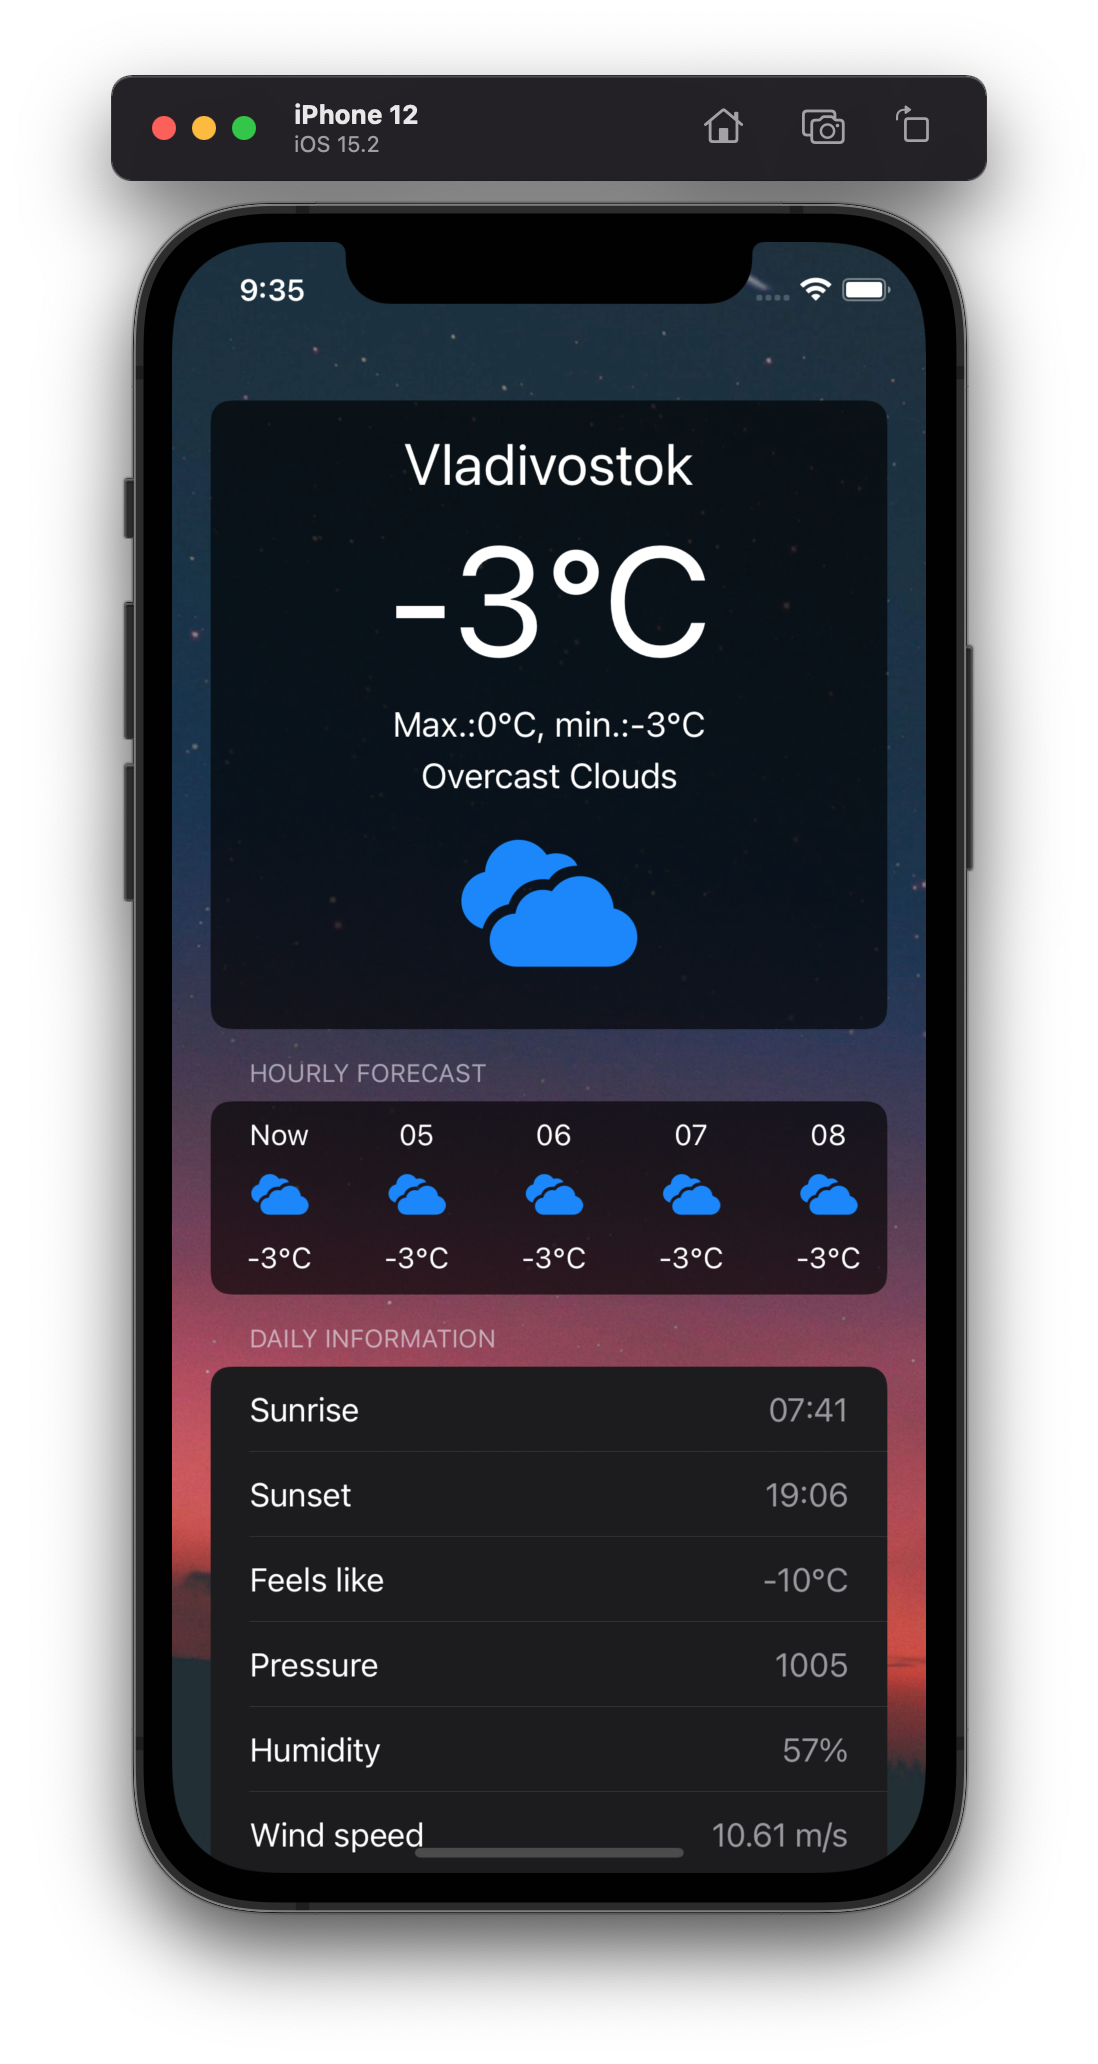
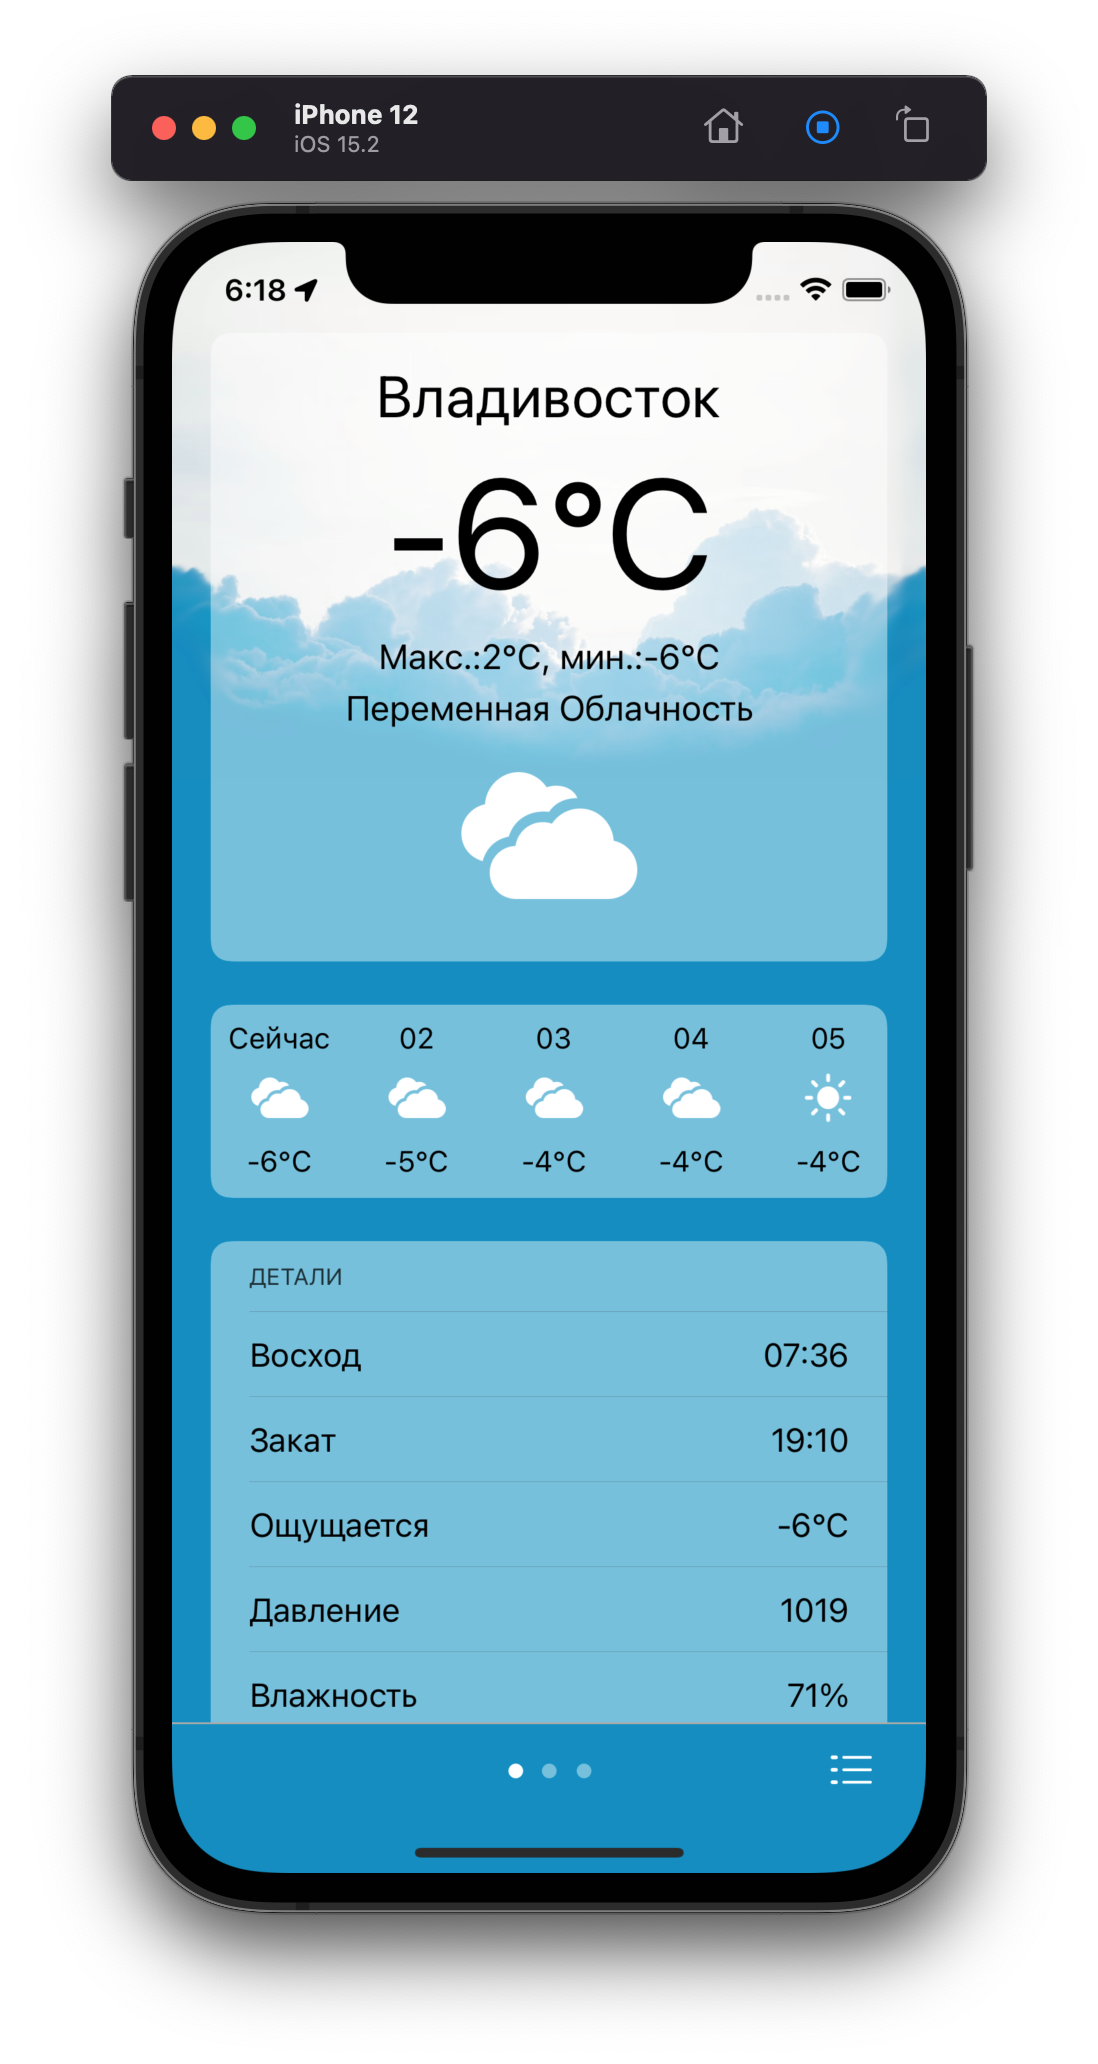
Update readme, loc

diff --git a/WeatherApp/README.md b/WeatherApp/README.md
@@ -2,6 +2,8 @@
 ---
 ## Description
 Simple Weather app for current location  with OpenWeatherMap api.
+Rus/End
+Light/Dark
 
 ## Used  
 MVVM  
@@ -9,4 +11,5 @@ CoreLocation
 SnapKit  
 URLSession  
 
-<img src="./screenshots/1.png?raw=true" width="200"><img src="./screenshots/2.png?raw=true" width="200">
+<img src="./screenshots/1.png?raw=true" width="200"><img src="./screenshots/2_1.png?raw=true" width="200"><img src="./screenshots/3.png?raw=true" width="200"><br/>
+<img src="./screenshots/4.png?raw=true" width="200"><img src="./screenshots/5.png?raw=true" width="200"><img src="./screenshots/6.png?raw=true" width="200">
